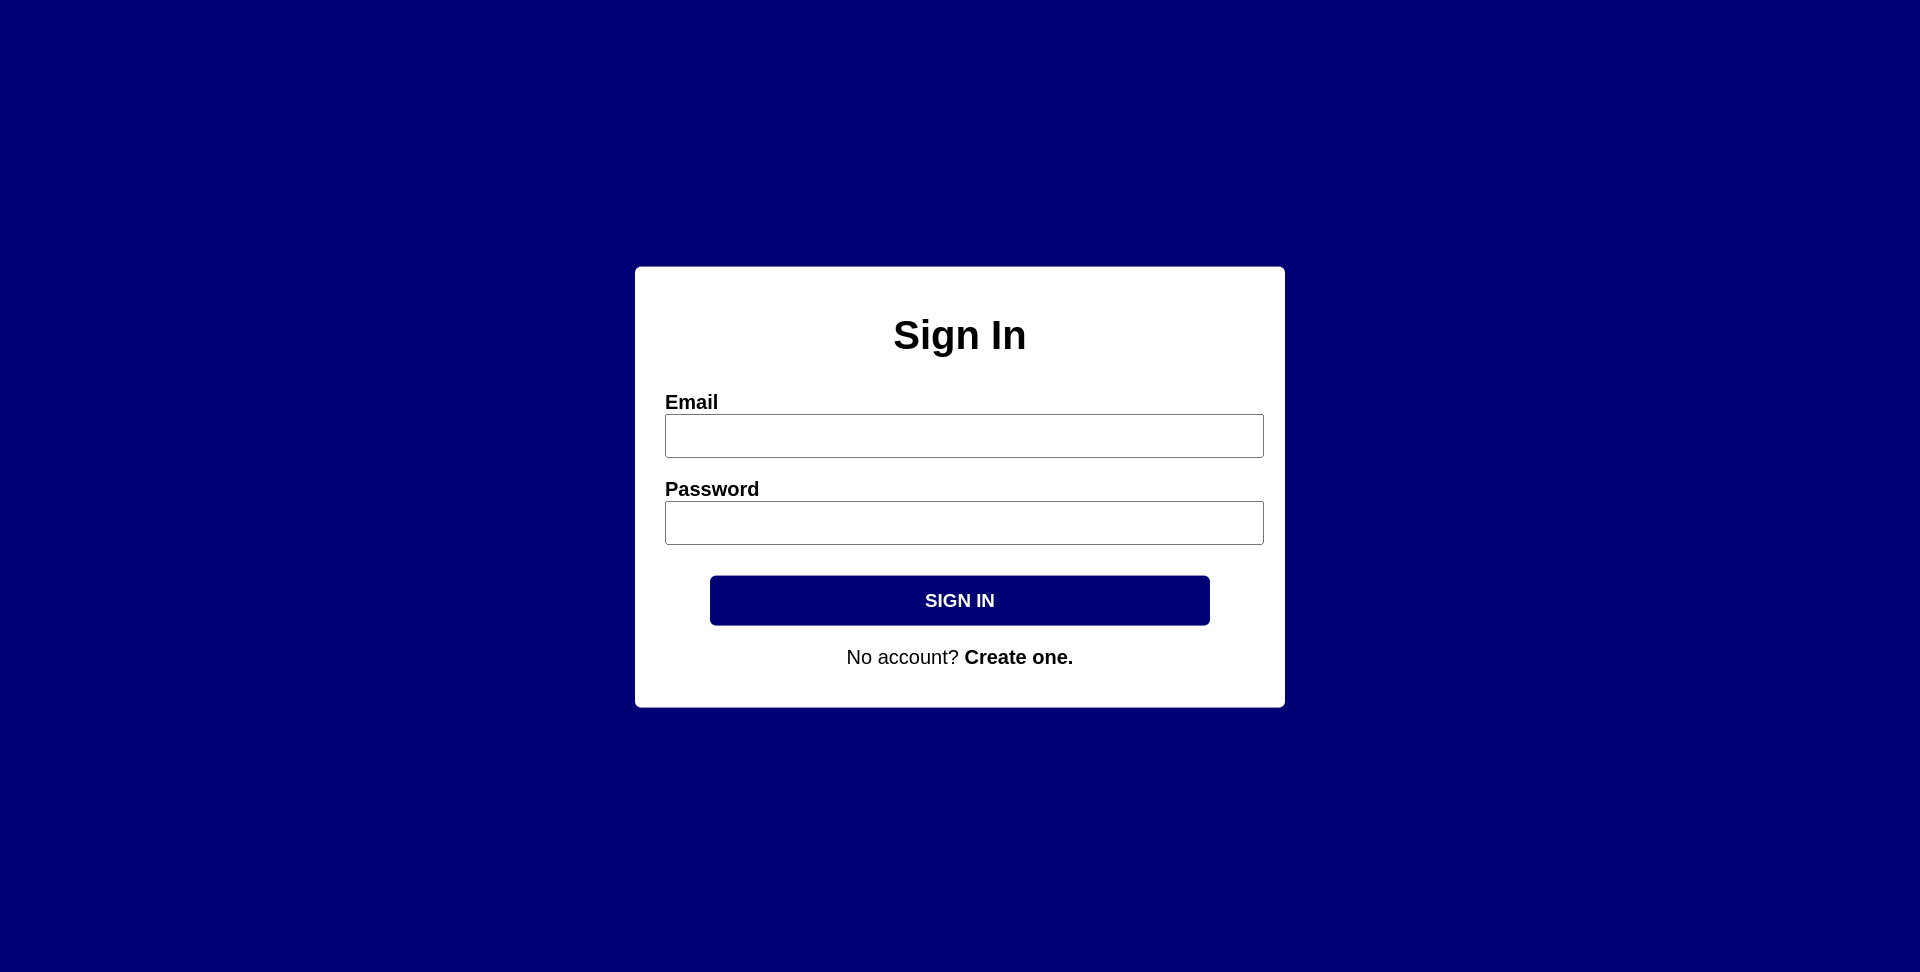
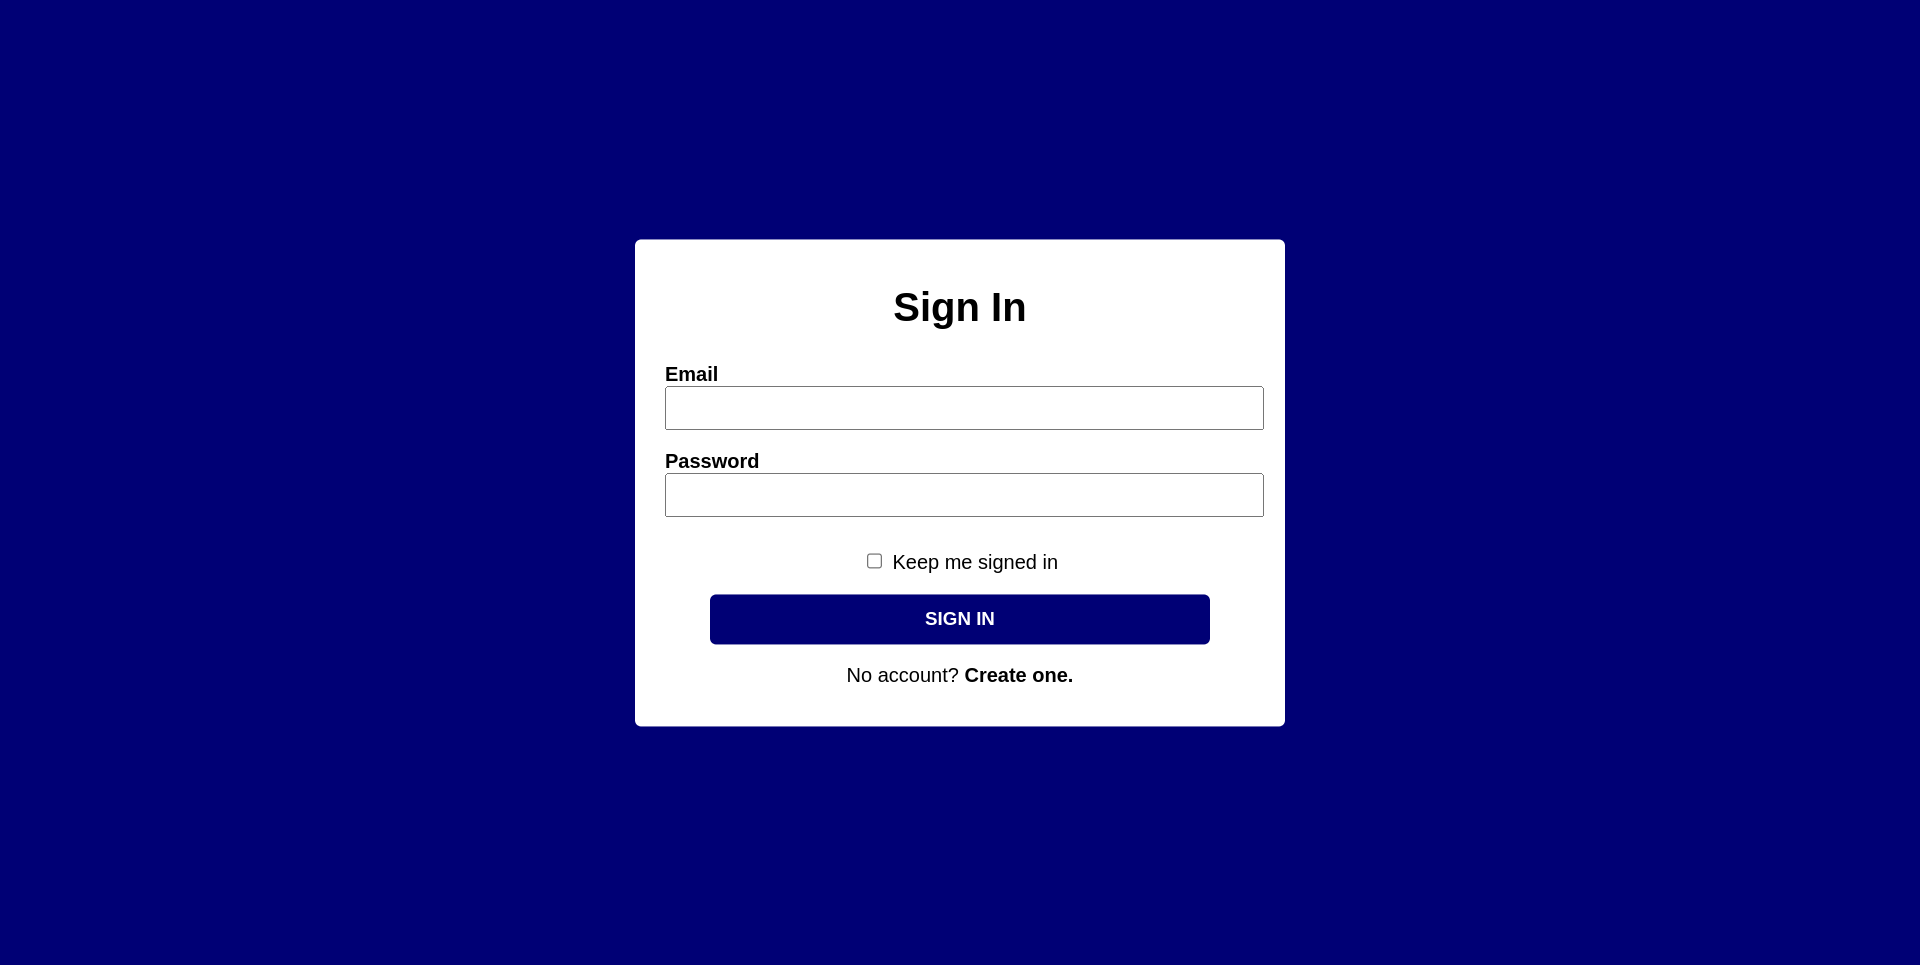
remember me

diff --git a/libs/account.js b/libs/account.js
@@ -69,7 +69,15 @@ const login = async (req, res) => {
 
     const session = await generateSession(id) // Generate session and store alongside ID in sessions table
 
-    res.cookie('session', session) // Save cookie with session
+    const rememberMe = req.body.rememberme
+
+    // Save session as browser cookie
+    if (rememberMe) {
+        res.cookie('session', session, { expires: new Date(Date.now() + 31536000000), httpOnly: true }) // Expire in a years time
+    } else {
+        res.cookie('session', session, { httpOnly: true }) // Expire when browser closed
+    }
+
     res.redirect('/') // Go to homepage
 
     return true

diff --git a/public/sign-in/index.html b/public/sign-in/index.html
@@ -17,6 +17,7 @@
                     <label class="login__label" for="password">Password</label>
                     <input type="password" class="login__input" id="password" name="password" required>
                 </fieldset>
+                <p class="login__text"><input type="checkbox" name="rememberme"> Keep me signed in</p>
                 <input type="submit" class="login__submit" value="SIGN IN">
             </form>
             <p class="login__text">No account? <a href="/sign-up">Create one.</a></p>

diff --git a/README.md b/README.md
@@ -18,7 +18,7 @@ A login system in Node.js/Express.js. This includes the ability to register, log
 * Edit account 🟠
 * Delete account 🟠
 * Email verification 🟠
-* Remember me 🟠
+* Remember me 🟢
 
 ## Installation instructions
 
